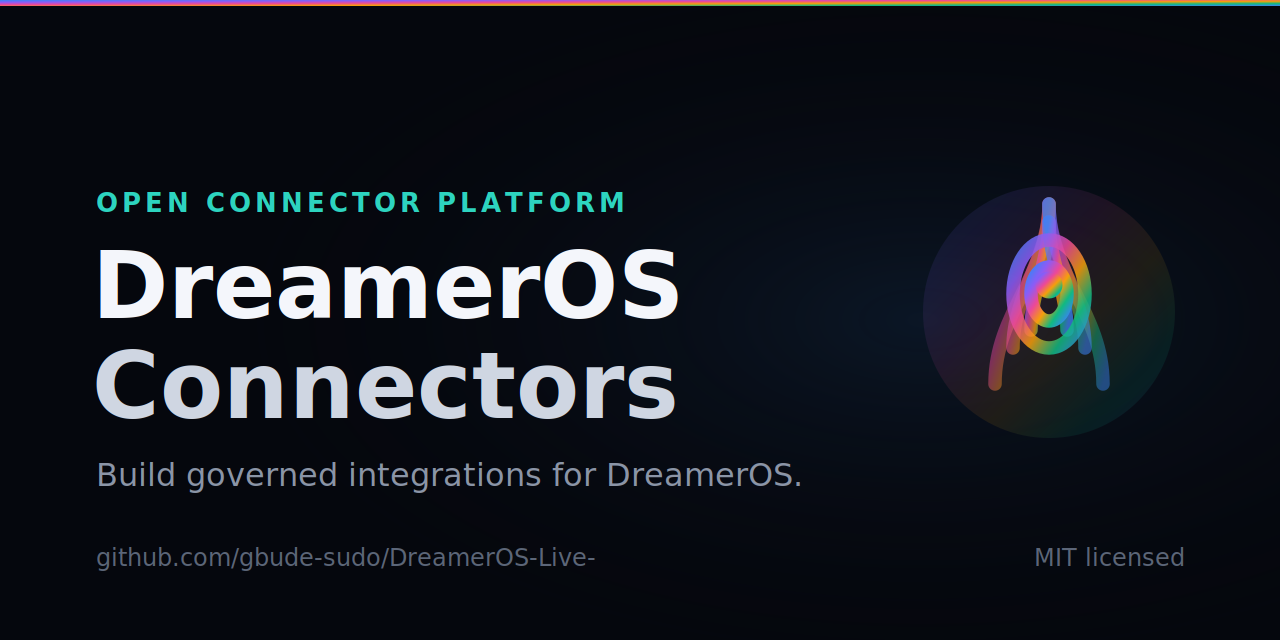
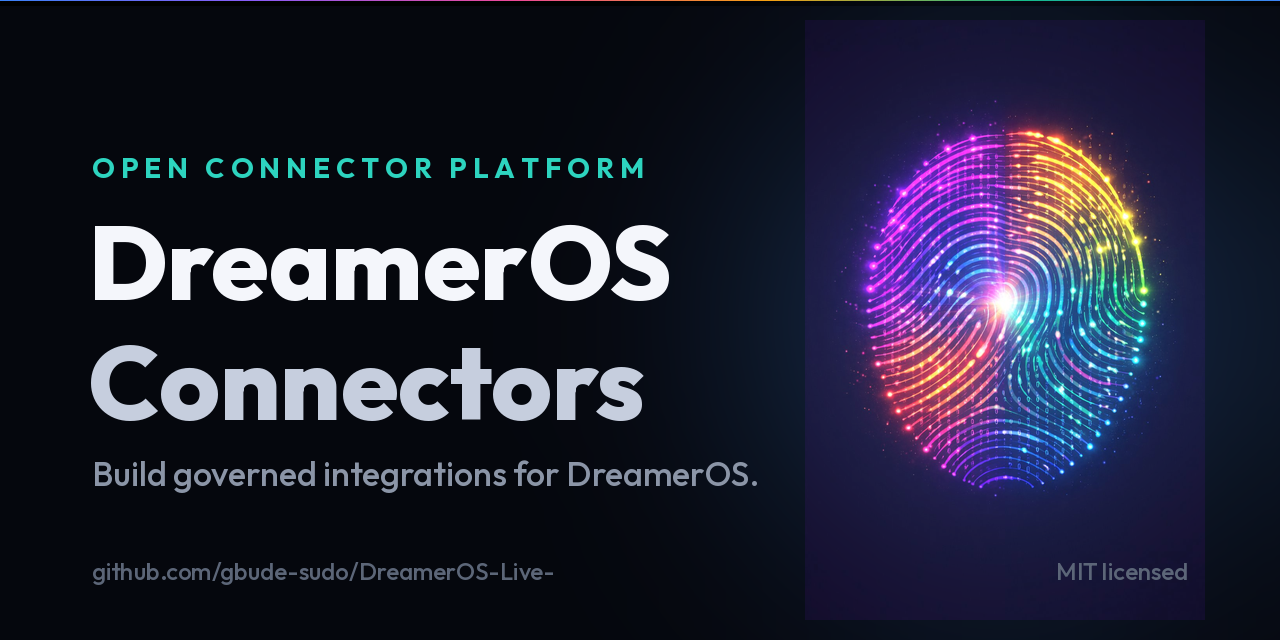
docs: use the real fingerprint mark in the brand imaging
Rebuild the social-preview card from the actual high-resolution DreamerOS
fingerprint mark (screen-composited on the brand near-black, geometric
wordmark, soft glow) instead of the low-detail favicon glyph, and point
the README hero at the same mark. Remove the stale SVG source that no
longer matches the rendered card.

Claude-Session: https://claude.ai/code/session_01WPDweyvenVByp29Kbx8kHZ

diff --git a/README.md b/README.md
@@ -1,6 +1,6 @@
 <div align="center">
 
-<img src="./assets/logo.svg" alt="DreamerOS" width="110" />
+<img src="./assets/mark.png" alt="DreamerOS" width="96" />
 
 # DreamerOS Connectors
 